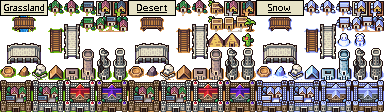
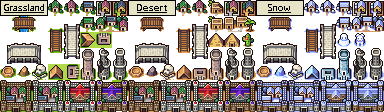
Game Map v1. All paths balanced to have the same number of tiles, as well as the free construction area is balanced too.

Changed region(s): [[0.1875, 0.2679, 0.3125, 0.4286], [0.125, 0.5625, 0.2188, 0.7232]]

diff --git a/include/network_game_maps.h b/include/network_game_maps.h
@@ -9,29 +9,29 @@
 // 38 * 25
 const int basic_map[950] = {
 	2, 2, 2, 2, 2, 2, 2, 2, 2, 2, 2, 2, 2, 2, 2, 2, 2, 2,27, 2, 2, 2, 2, 2, 2, 2, 2, 2, 2, 2, 2, 2, 2, 2, 2, 2, 2, 2,
-	2, 2, 2, 2, 2, 0, 0, 2, 2, 2, 2, 2, 2, 0, 0, 0, 2, 2,27, 2, 2, 1, 1, 1, 1, 1, 1, 1, 1, 1, 1, 2, 2, 2, 2, 2, 2, 2,
-	2, 2, 2, 0, 0, 0, 0, 0, 0, 2, 2, 0, 0, 0, 0, 0, 0,31,30, 1, 1, 1, 1, 1, 1, 1, 1, 1, 1, 1, 1, 1,34,34, 8, 2, 2, 2,
-	2, 2, 0, 0, 0, 0, 0, 0, 0, 0, 0, 0, 0, 0, 0, 0, 0,27, 1, 1, 1, 1, 1, 1, 1, 1, 1, 1, 1, 1, 1, 1, 1, 9,35, 2, 2, 2,
-	2, 0, 0, 0, 0, 0, 0,38,34,34,34,34,34,34,34,34,34,34,34, 1, 1, 1, 1, 1, 1, 1, 1, 1, 1, 1, 1, 1, 1, 1,35, 1, 2, 2,
-	2, 2, 0, 0, 0, 0,38,37, 0, 0, 0, 0, 0, 0, 0, 0,20,28, 1, 1, 1, 1, 1, 1, 1, 1, 1, 1, 1, 1, 1, 1, 1, 1, 1, 2, 2, 2,
-	2, 2, 2, 0, 0,38,37, 0, 0, 2, 0, 2, 0, 0, 0,20,24,15, 1, 1, 1, 1, 1, 1, 1, 1, 1, 1, 1, 1, 1, 1, 1, 1, 1, 2, 2, 2,
-	2, 2, 2, 0, 0,35, 0, 0, 2, 2, 2, 2, 2, 0, 0,16,11,23,19, 1, 1, 1, 1, 1, 1, 1, 1, 1, 1, 1, 1, 1, 1, 1, 1, 1, 2, 2,
-	2, 2, 2, 0, 0,35, 0, 0, 2, 2, 2, 2, 2, 0,20,24,11,11,15, 1, 1, 1, 1, 1, 1, 1, 1, 1, 1, 1, 1, 1, 1, 1, 1, 1, 1, 2,
-	2, 2, 2, 0, 0,36,39, 0, 0, 2, 2, 2, 2,20,24,11,11,11,23,17,19, 1, 1, 1, 1, 1, 1, 1, 1, 1, 1, 1, 1, 1, 1, 1, 1, 2,
-	2, 2, 2, 2, 0, 0,36,34,39, 0, 2, 2,20,24,11,11,11,11,11,11,23,19, 1, 1, 1, 1, 1, 1, 1, 1, 1, 1, 1, 1, 1, 1, 1, 2,
-	2, 0, 2, 2, 2, 2, 0, 0,36,39, 0, 2,16,11,11,11,11,11,11,11,11,23,19, 1, 1, 1, 1, 1, 1, 1, 1, 1, 1, 1, 1, 1, 1, 2,
-	2, 0, 0, 2, 2, 2, 0, 0, 0,35, 0, 0,16,11,11,11,11,11,11,11,11,11,23,19, 1, 1, 1, 1, 1, 1, 1, 1, 1, 1, 1, 1, 1, 2,
-	2, 0, 0, 2, 2, 2, 2, 0, 0,35, 0, 2,22,26,11,11,11,11,11,11,11,11,25,21, 1, 1, 1, 1, 1, 1, 1, 1, 1, 1, 1, 1, 1, 2,
-	2, 2, 0, 0, 2, 2, 2, 2, 0,35, 0, 2, 2,22,26,11,11,11,11,11,11,11,15, 1, 1, 1, 1, 1, 1, 1, 1, 1, 1, 1, 1, 1, 1, 2,
-	2, 0, 0, 0, 0, 0, 2, 0,38,37, 2, 2, 2, 2,22,18,26,11,11,11,11,25,21, 1, 1, 1, 1, 1, 1, 1, 1, 1, 1, 1, 1, 1, 1, 2,
-	2, 0, 0, 0, 0, 0, 0,38,37, 0, 2, 2, 2, 2, 2, 2,22,18,26,11,25,21, 1, 1, 1, 1, 1, 1, 1, 1, 1, 1, 1, 1, 1, 1, 1, 2,
-	2, 2, 0, 0,38,34,34,37, 2, 2, 2, 2, 2, 2, 2, 0, 0, 0,22,26,15, 1, 1, 1, 1, 1, 1, 1, 1, 1, 1, 1, 1, 1, 1, 1, 1, 2,
-	2, 2, 0,38,37, 0, 0, 2, 2, 2, 0, 0, 2, 2, 0, 0, 0, 0, 0,22,33, 1, 1, 1, 1, 1, 1, 1, 1, 1, 1, 1, 1, 1, 1, 1, 1, 2,
-	2, 2, 2,35, 0, 0, 0, 0, 0, 0, 0, 0, 0, 0, 0, 0, 0, 0, 0, 0,29,32, 1, 1, 1, 1, 1, 1, 1, 1, 1, 1, 1, 1, 1, 1, 1, 2,
-	2, 2, 2,35, 0, 0, 0, 0, 0, 0, 0, 0, 0, 0, 0, 0, 0, 0, 0, 0, 0,29,32, 1, 1, 1, 1, 1, 1, 1, 1, 1, 1, 1, 1, 1, 1, 2,
-	2, 2, 2,35, 4, 0,38,34,34,34,34,39, 0, 0, 0, 0, 0, 0, 0, 0, 0, 0,27, 1, 1, 1, 1, 1, 1, 1, 1, 1, 1, 1, 1, 1, 2, 2,
-	2, 2, 2, 5,34,34,37, 0, 0, 0, 0,36,34,34,34,34,34,34,34,34,34,34,34,34, 1, 1, 1, 1, 1, 1, 1, 1, 1, 1, 1, 2, 2, 2,
-	2, 2, 2, 2, 2, 2, 2, 2, 2, 0, 0, 0, 0, 0, 0, 0, 0, 0, 0, 0, 0, 0,27, 1, 1, 1, 1, 1, 1, 1, 1, 1, 2, 2, 2, 2, 2, 2,
+	2, 2, 2, 2, 2, 0, 0, 2, 2, 2, 2, 2, 2, 0, 0, 0, 2, 2,27, 2, 2, 2, 2, 1, 1, 1, 1, 1, 1, 1, 1, 2,41, 2, 2, 2, 2, 2,
+	2, 2, 2, 0, 0, 0, 0, 0, 0, 2, 2, 0, 0, 0, 0, 0, 0,31,30, 1, 2, 2, 1, 1, 1, 1, 1,38,34,39, 1,38,34,34, 8, 2, 2, 2,
+	2, 2, 0, 0, 0, 0, 0, 0, 0, 0, 0, 0, 0, 0, 0, 0, 0,27, 1, 1, 1, 1, 1,38,34,34,34,37, 1,36,34,37, 1, 9,35, 2, 2, 2,
+	2, 0, 0, 0, 0, 0, 0,38,34,34,34,34,34,34,34,34,34,34,34,34,34,34,34,37, 1, 1, 1, 1, 1, 1, 1, 1, 1, 1,35,43, 2, 2,
+	2, 2, 0, 0, 0, 0,38,37, 0, 0, 0, 0, 0, 0, 0, 0,20,28, 1, 1, 1, 1, 1, 1, 1, 1, 1, 1, 1, 1, 1, 1, 1, 1,35, 2, 2, 2,
+	2, 2, 2, 0, 0,38,37, 0, 0, 2, 0, 2, 0, 0, 0,20,24,15, 1, 1, 1, 1, 1, 1, 1, 1, 1, 2, 2, 2, 2, 1, 1, 1,35, 1, 2, 2,
+	2, 2, 2, 0, 0,35, 0, 0, 2, 2, 2, 2, 2, 0, 0,16,11,23,19, 1, 1, 1, 1, 1, 1, 1, 2, 2, 2, 2, 1, 1, 1,38,37, 1, 2, 2,
+	2, 2, 2, 0, 0,35, 0, 0, 2, 2, 2, 2, 2, 0,20,24,11,11,15, 1, 1, 1, 1, 1, 1, 2, 2, 2, 2, 2, 1, 1, 1,35, 1, 1, 1, 2,
+	2, 2, 2, 0, 0,36,39, 0, 0, 2, 2, 2, 2,20,24,11,11,11,23,17,19, 1, 1, 2, 2, 2, 2, 2, 2, 1, 1, 1, 1,35, 1, 1, 1, 2,
+	2, 2, 2, 2, 0, 0,36,34,39, 0, 2, 2,20,24,11,11,11,11,11,11,23,19, 2, 2, 2, 2, 2, 2, 1, 1, 1, 1, 1,35, 1, 1, 2, 2,
+	2, 0, 2, 2, 2, 2, 0, 0,36,39, 0, 2,16,11,11,11,11,11,11,11,11,23,19, 2, 2, 2, 2, 1, 1, 1, 1, 1,38,37, 1, 1, 2, 2,
+	2, 0, 0, 2, 2, 2, 0, 0, 0,35, 0, 0,16,11,11,11,11,11,11,11,11,11,23,19, 2, 2, 1, 1, 1, 1, 1,38,37, 1, 1, 1, 2, 2,
+	2, 0, 0, 2, 2, 2, 2, 0, 0,35, 0, 2,22,26,11,11,11,11,11,11,11,11,25,21, 2, 2, 1, 1,38,34,34,37, 1, 1, 1, 2, 2, 2,
+	2, 2, 0, 0, 2, 2, 2, 2, 0,35, 0, 2, 2,22,26,11,11,11,11,11,11,11,15, 2, 2, 2, 1,38,37, 2, 1, 2, 1, 1, 1, 2, 2, 2,
+	2, 0, 0, 0, 0, 0, 2, 0,38,37, 2, 2, 2, 2,22,18,26,11,11,11,11,25,21, 2, 2, 2, 1,35, 1, 2, 2, 2, 2, 2, 2, 2, 2, 2,
+	2, 0, 0, 0, 0, 0, 0,38,37, 0, 2, 2, 2, 2, 2, 2,22,18,26,11,25,21, 2, 2, 2, 1, 1,35, 1, 1, 1, 2, 2, 2, 2, 2, 2, 2,
+	2, 2, 0, 0,38,34,34,37, 2, 2, 2, 2, 2, 2, 2, 0, 0, 0,22,26,15, 1, 1, 1, 2, 2, 1,36,39, 1, 1, 1, 1, 2, 2, 2, 2, 2,
+	2, 2, 0,38,37, 0, 0, 2, 2, 2, 0, 0, 2, 2, 0, 0, 0, 0, 0,22,33, 1, 1, 1, 2, 2, 1, 1,36,34,39, 1, 1, 1, 2, 2, 2, 2,
+	2, 2, 2,35, 0, 0, 0, 0, 0, 0, 0, 0, 0, 0, 0, 0, 0, 0, 0, 0,29,32, 1, 1, 2, 2, 2, 1, 1, 1,36,39, 1, 1, 1, 2, 2, 2,
+	2, 2,40,35, 0, 0, 0, 0, 0, 0, 0, 0, 0, 0, 0, 0, 0, 0, 0, 0, 0,29,32, 1, 1, 2, 2, 2, 2, 1, 1,35, 1, 1, 1, 2, 2, 2,
+	2, 2, 2,35, 4, 0,38,34,34,34,34,39, 0, 0, 0, 0, 0, 0, 0, 0, 0, 0,27, 1, 1, 1, 1, 1, 1, 1, 1,35, 1, 1, 1, 2, 2, 2,
+	2, 2, 2, 5,34,34,37, 0, 0, 0, 0,36,34,34,34,34,34,34,34,34,34,34,34,34,34,34,34,34,34,34,34,37, 1, 1, 2, 2, 2, 2,
+	2, 2, 2, 2, 2,42, 2, 2, 2, 0, 0, 0, 0, 0, 0, 0, 0, 0, 0, 0, 0, 0,27, 1, 1, 1, 1, 1, 1, 1, 1, 1, 2, 2, 2, 2, 2, 2,
 	2, 2, 2, 2, 2, 2, 2, 2, 2, 2, 2, 2, 2, 2, 2, 2, 2, 2, 2, 2, 2, 2,27, 2, 2, 2, 2, 2, 2, 2, 2, 2, 2, 2, 2, 2, 2, 2
 };
 
@@ -62,3 +62,4 @@ const int detail_map[950] = {
 	0, 0, 0, 0, 0, 0, 0, 0, 0, 0, 0, 0, 0, 0, 0, 0, 0, 0, 0, 0, 0, 0, 0, 0, 0, 0, 0, 0, 0, 0, 0, 0, 0, 0, 0, 0, 0, 0,
 	0, 0, 0, 0, 0, 0, 0, 0, 0, 0, 0, 0, 0, 0, 0, 0, 0, 0, 0, 0, 0, 0, 0, 0, 0, 0, 0, 0, 0, 0, 0, 0, 0, 0, 0, 0, 0, 0
 };
+

diff --git a/src/game_engine/tilemap.cpp b/src/game_engine/tilemap.cpp
@@ -30,10 +30,10 @@ Tilemap::~Tilemap(){
 
 void Tilemap::loadSubSprites(){
 
-	// 0: grass
+	// 0: grass player 1
 	sub_sprite_refs_.push_back({ "../../../data/images/terrain.png", {48, 0, 16, 16 } });
-	// 1: grass w/ flowers
-	sub_sprite_refs_.push_back({ "../../../data/images/terrain.png", {96, 0, 16, 16 } });
+	// 1: grass player 2
+	sub_sprite_refs_.push_back({ "../../../data/images/terrain.png", {48, 0, 16, 16 } });
 	// 2: trees
 	sub_sprite_refs_.push_back({ "../../../data/images/terrain.png", {224, 192, 16, 16 } });
 	// 3:P1 castle 1
@@ -110,6 +110,14 @@ void Tilemap::loadSubSprites(){
 	sub_sprite_refs_.push_back({ "../../../data/images/terrain.png", {48, 96, 16, 16 } });
 	// 39: pathway bottom left
 	sub_sprite_refs_.push_back({ "../../../data/images/terrain.png", {64, 96, 16, 16 } });
+	// 40: P1 tent barracks
+	sub_sprite_refs_.push_back({ "../../../data/images/objects.png", {64, 64, 16, 16 } });
+	// 41: P2 tent barracks
+	sub_sprite_refs_.push_back({ "../../../data/images/objects.png", {48, 64, 16, 16 } });
+	// 42: P1 tent barracks rotated
+	sub_sprite_refs_.push_back({ "../../../data/images/objects.png", {96, 32, 16, 16 } });
+	// 43: P2 tent barracks rotated
+	sub_sprite_refs_.push_back({ "../../../data/images/objects.png", {80, 32, 16, 16 } });
 
 
 	for (int i = 0; i < sub_sprite_refs_.size(); ++i) {

diff --git a/src/network_game.cpp b/src/network_game.cpp
@@ -80,7 +80,7 @@ void NetworkGame::loadResources() {
 void NetworkGame::loadGame() {
 
 	// Create game objects and map.
-	Scene* scene = scene_;
+	//Scene* scene = scene_;
 
 	/*GameObject* g1 = GameObject::CreateGameObject();
 	Sprite* sprite = new Sprite(*g1, "../../../data/images/terrain.png", 192, 352, 32, 32);
@@ -88,25 +88,10 @@ void NetworkGame::loadGame() {
 		, 160.0f, 0);
 	g1->addComponent(sprite);*/
 
-	GameObject* g2 = GameObject::CreateGameObject();
+	/*GameObject* g2 = GameObject::CreateGameObject();
 	Sprite* sprite2 = new Sprite(*g2, "../../../data/images/objects.png", 80, 48, 16, 32);
 	g2->transform_.position_ = glm::vec3(480.0f + 8.0f, 224.0f, 0);
-	g2->addComponent(sprite2);
-
-	/*for (int y = 0; y < 25; ++y) {
-		for (int x = 0; x < 38; ++x) {
-			GameObject* g2 = GameObject::CreateGameObject();
-			Sprite* sprite2;
-			if (x == 20 && y == 10) {
-				sprite2 = new Sprite(*g2, "../../../data/images/objects.png", 96, 0, 16, 16);
-			}
-			else {
-				sprite2 = new Sprite(*g2, "../../../data/images/terrain.png", 48, 0, 16, 16);
-			}
-			g2->transform_.position_ = glm::vec3(8.0f + x * 16.0f, 8.0f + y * 16.0f, 0);
-			g2->addComponent(sprite2);
-		}
-	}*/
+	g2->addComponent(sprite2);*/
 
 }
 

diff --git a/include/game_engine/tilemap.h b/include/game_engine/tilemap.h
@@ -24,15 +24,23 @@ public:
   ~Tilemap();
 
   enum TileKind {
-    kTileKind_Buildable = 0,
-    kTileKind_Walkable = 1,
-    kTileKind_Blocked = 2
+    kTileKind_Blocked = 0,
+    kTileKind_RoadBuildable = 1,
+    kTileKind_FieldBuildable = 2,
+    kTileKind_Tree = 3,
+    kTileKind_Rock = 4,
+    kTileKind_FarmGrass = 5,
+    kTileKind_Tower = 6,
+    kTileKind_House = 7,
+    kTileKind_Walkable = 8,
   };
 
   void loadSubSprites();
 
   int checkFourAdjacentTiles(glm::vec2 tile_pos, TileKind tile_kind);
   int checkEightAdjacentTiles(glm::vec2 tile_pos, TileKind tile_kind);
+
+  //get buildable tiles(player id, field/road) (used when building mode)
 
   //void loadMap(const int map[950]);
   void draw();
